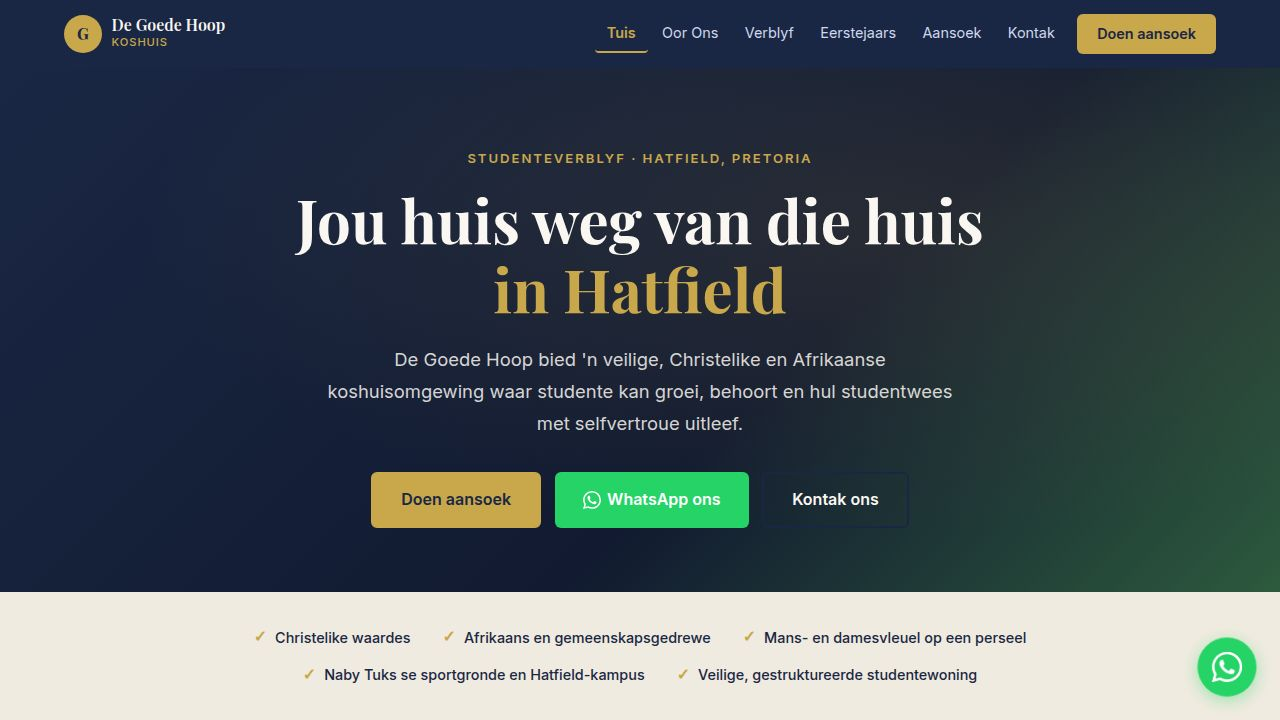
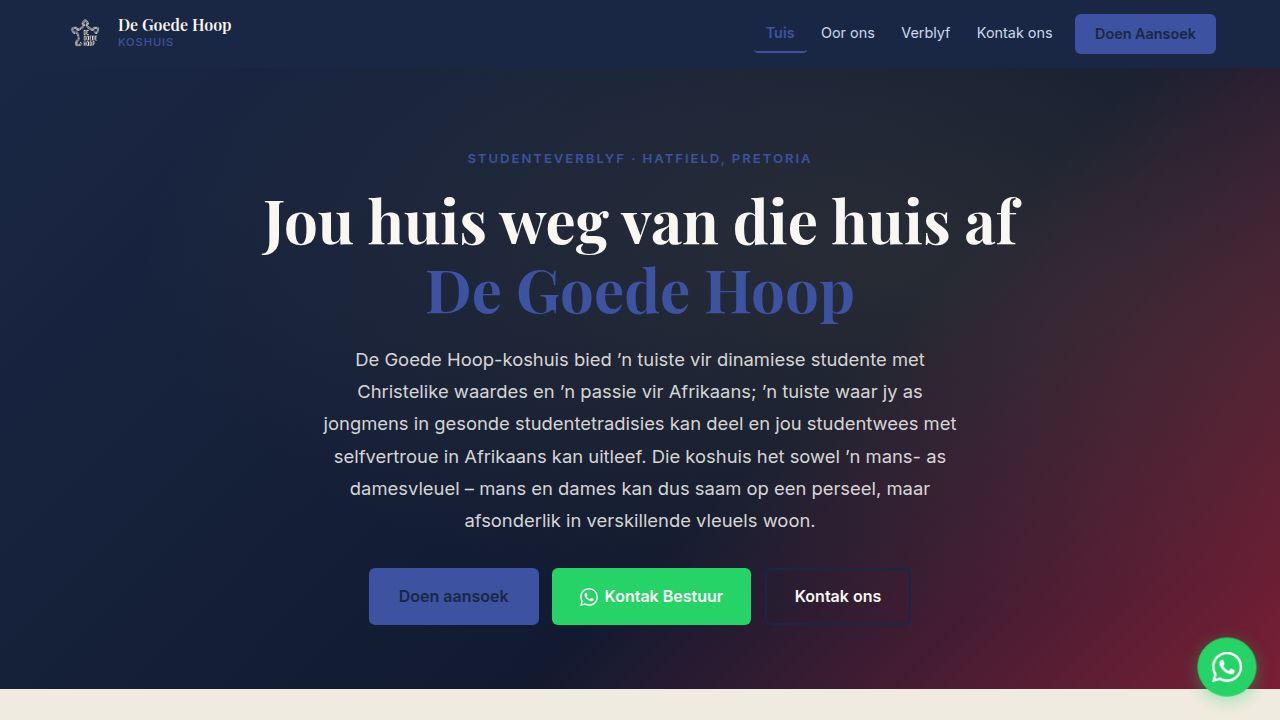
Update the homepage visuals with new collage images and layout
Replace the existing multi-column image layout with a two-column collage pair on the homepage, updating associated CSS and image assets.

Replit-Commit-Author: Agent
Replit-Commit-Session-Id: 571b241a-4acc-44bc-b779-382c89bb97c5
Replit-Commit-Checkpoint-Type: full_checkpoint
Replit-Commit-Event-Id: 27daf846-4785-4dd8-b03d-17247c19294c
Replit-Commit-Screenshot-Url: https://storage.googleapis.com/screenshot-production-us-central1/1dc8a06e-5e4b-4c38-ab46-30f51db88f58/571b241a-4acc-44bc-b779-382c89bb97c5/lX7tW8Y
Replit-Helium-Checkpoint-Created: true

diff --git a/artifacts/de-goede-hoop/src/index.css b/artifacts/de-goede-hoop/src/index.css
@@ -83,56 +83,39 @@ h5 {
   animation: pulse-whatsapp 3s ease-in-out infinite;
 }
 
-/* Koshuisgemeenskap photo collage */
-.collage-columns {
+/* Koshuisgemeenskap photo collage pair */
+.collage-pair {
   display: flex;
+  gap: 1rem;
   align-items: flex-start;
-  gap: 0.75rem;
 }
 
-.collage-column {
-  display: flex;
-  flex-direction: column;
+.collage-pair-item {
   flex: 1 1 0;
   min-width: 0;
-  gap: 0.75rem;
-}
-
-.collage-item {
   overflow: hidden;
-  border-radius: 10px;
-  box-shadow: 0 12px 30px -12px rgba(26, 39, 68, 0.3);
+  border-radius: 12px;
+  box-shadow: 0 16px 40px -12px rgba(26, 39, 68, 0.32);
   border: 1px solid rgba(26, 39, 68, 0.08);
+  aspect-ratio: 1023 / 1537;
+  background-color: #f0ebe0;
 }
 
-.collage-item img {
+.collage-pair-item img {
   width: 100%;
-  height: auto;
+  height: 100%;
+  object-fit: cover;
   display: block;
   transition: transform 0.4s ease;
 }
 
-.collage-item:hover img {
-  transform: scale(1.05);
+.collage-pair-item:hover img {
+  transform: scale(1.02);
 }
 
-@media (max-width: 900px) {
-  .collage-columns {
-    flex-wrap: wrap;
-  }
-
-  .collage-column {
-    flex: 1 1 calc(50% - 0.4rem);
-  }
-}
-
-@media (max-width: 480px) {
-  .collage-columns {
+@media (max-width: 640px) {
+  .collage-pair {
     flex-direction: column;
-  }
-
-  .collage-column {
-    width: 100%;
   }
 }
 

diff --git a/artifacts/de-goede-hoop/src/pages/TuisPage.tsx b/artifacts/de-goede-hoop/src/pages/TuisPage.tsx
@@ -4,14 +4,8 @@ import { whatsappLink, mailtoLink, siteConfig } from "@/data/siteConfig";
 import SectionHeading from "@/components/SectionHeading";
 import InfoCard from "@/components/InfoCard";
 import CTAButton from "@/components/CTAButton";
-import collageBidSaam from "@/assets/bid-saam.png";
-import collageBokke from "@/assets/bokke.png";
-import collageGemeenskap from "@/assets/gemeenskap.png";
-import collageKonsert from "@/assets/konsert.png";
-import collageNampo from "@/assets/nampo.png";
-import collageSport from "@/assets/sport.png";
-import collageZoep from "@/assets/zoep.png";
-import collageDamesSocial from "@/assets/dames-social.png";
+import collage1 from "@/assets/collage-1.png";
+import collage2 from "@/assets/collage-2.png";
 
 const trustHighlights = [
   "Christelike waardes",
@@ -194,38 +188,14 @@ export default function TuisPage() {
             center
           />
           <div
-            className="collage-columns"
+            className="collage-pair"
             style={{ marginTop: "2.5rem" }}
           >
-            <div className="collage-column">
-              <div className="collage-item">
-                <img src={collageBidSaam} alt="Studente van De Goede Hoop bid saam" />
-              </div>
-              <div className="collage-item">
-                <img src={collageGemeenskap} alt="Koshuisgemeenskap saam" />
-              </div>
-              <div className="collage-item">
-                <img src={collageNampo} alt="Studente by Nampo" />
-              </div>
+            <div className="collage-pair-item">
+              <img src={collage1} alt="Studente van De Goede Hoop by sport, sosiale geleenthede en koshuislewe" />
             </div>
-            <div className="collage-column">
-              <div className="collage-item">
-                <img src={collageBokke} alt="Studente ondersteun die Bokke" />
-              </div>
-              <div className="collage-item">
-                <img src={collageKonsert} alt="Studente by 'n koshuiskonsert" />
-              </div>
-              <div className="collage-item">
-                <img src={collageDamesSocial} alt="Dames van De Goede Hoop by 'n sosiale byeenkoms" />
-              </div>
-            </div>
-            <div className="collage-column">
-              <div className="collage-item">
-                <img src={collageSport} alt="Studente by 'n sportbyeenkoms" />
-              </div>
-              <div className="collage-item">
-                <img src={collageZoep} alt="Studente geniet 'n sopie saam" />
-              </div>
+            <div className="collage-pair-item">
+              <img src={collage2} alt="Studente van De Goede Hoop by konserte, sport en gemeenskapsgebeure" />
             </div>
           </div>
         </div>